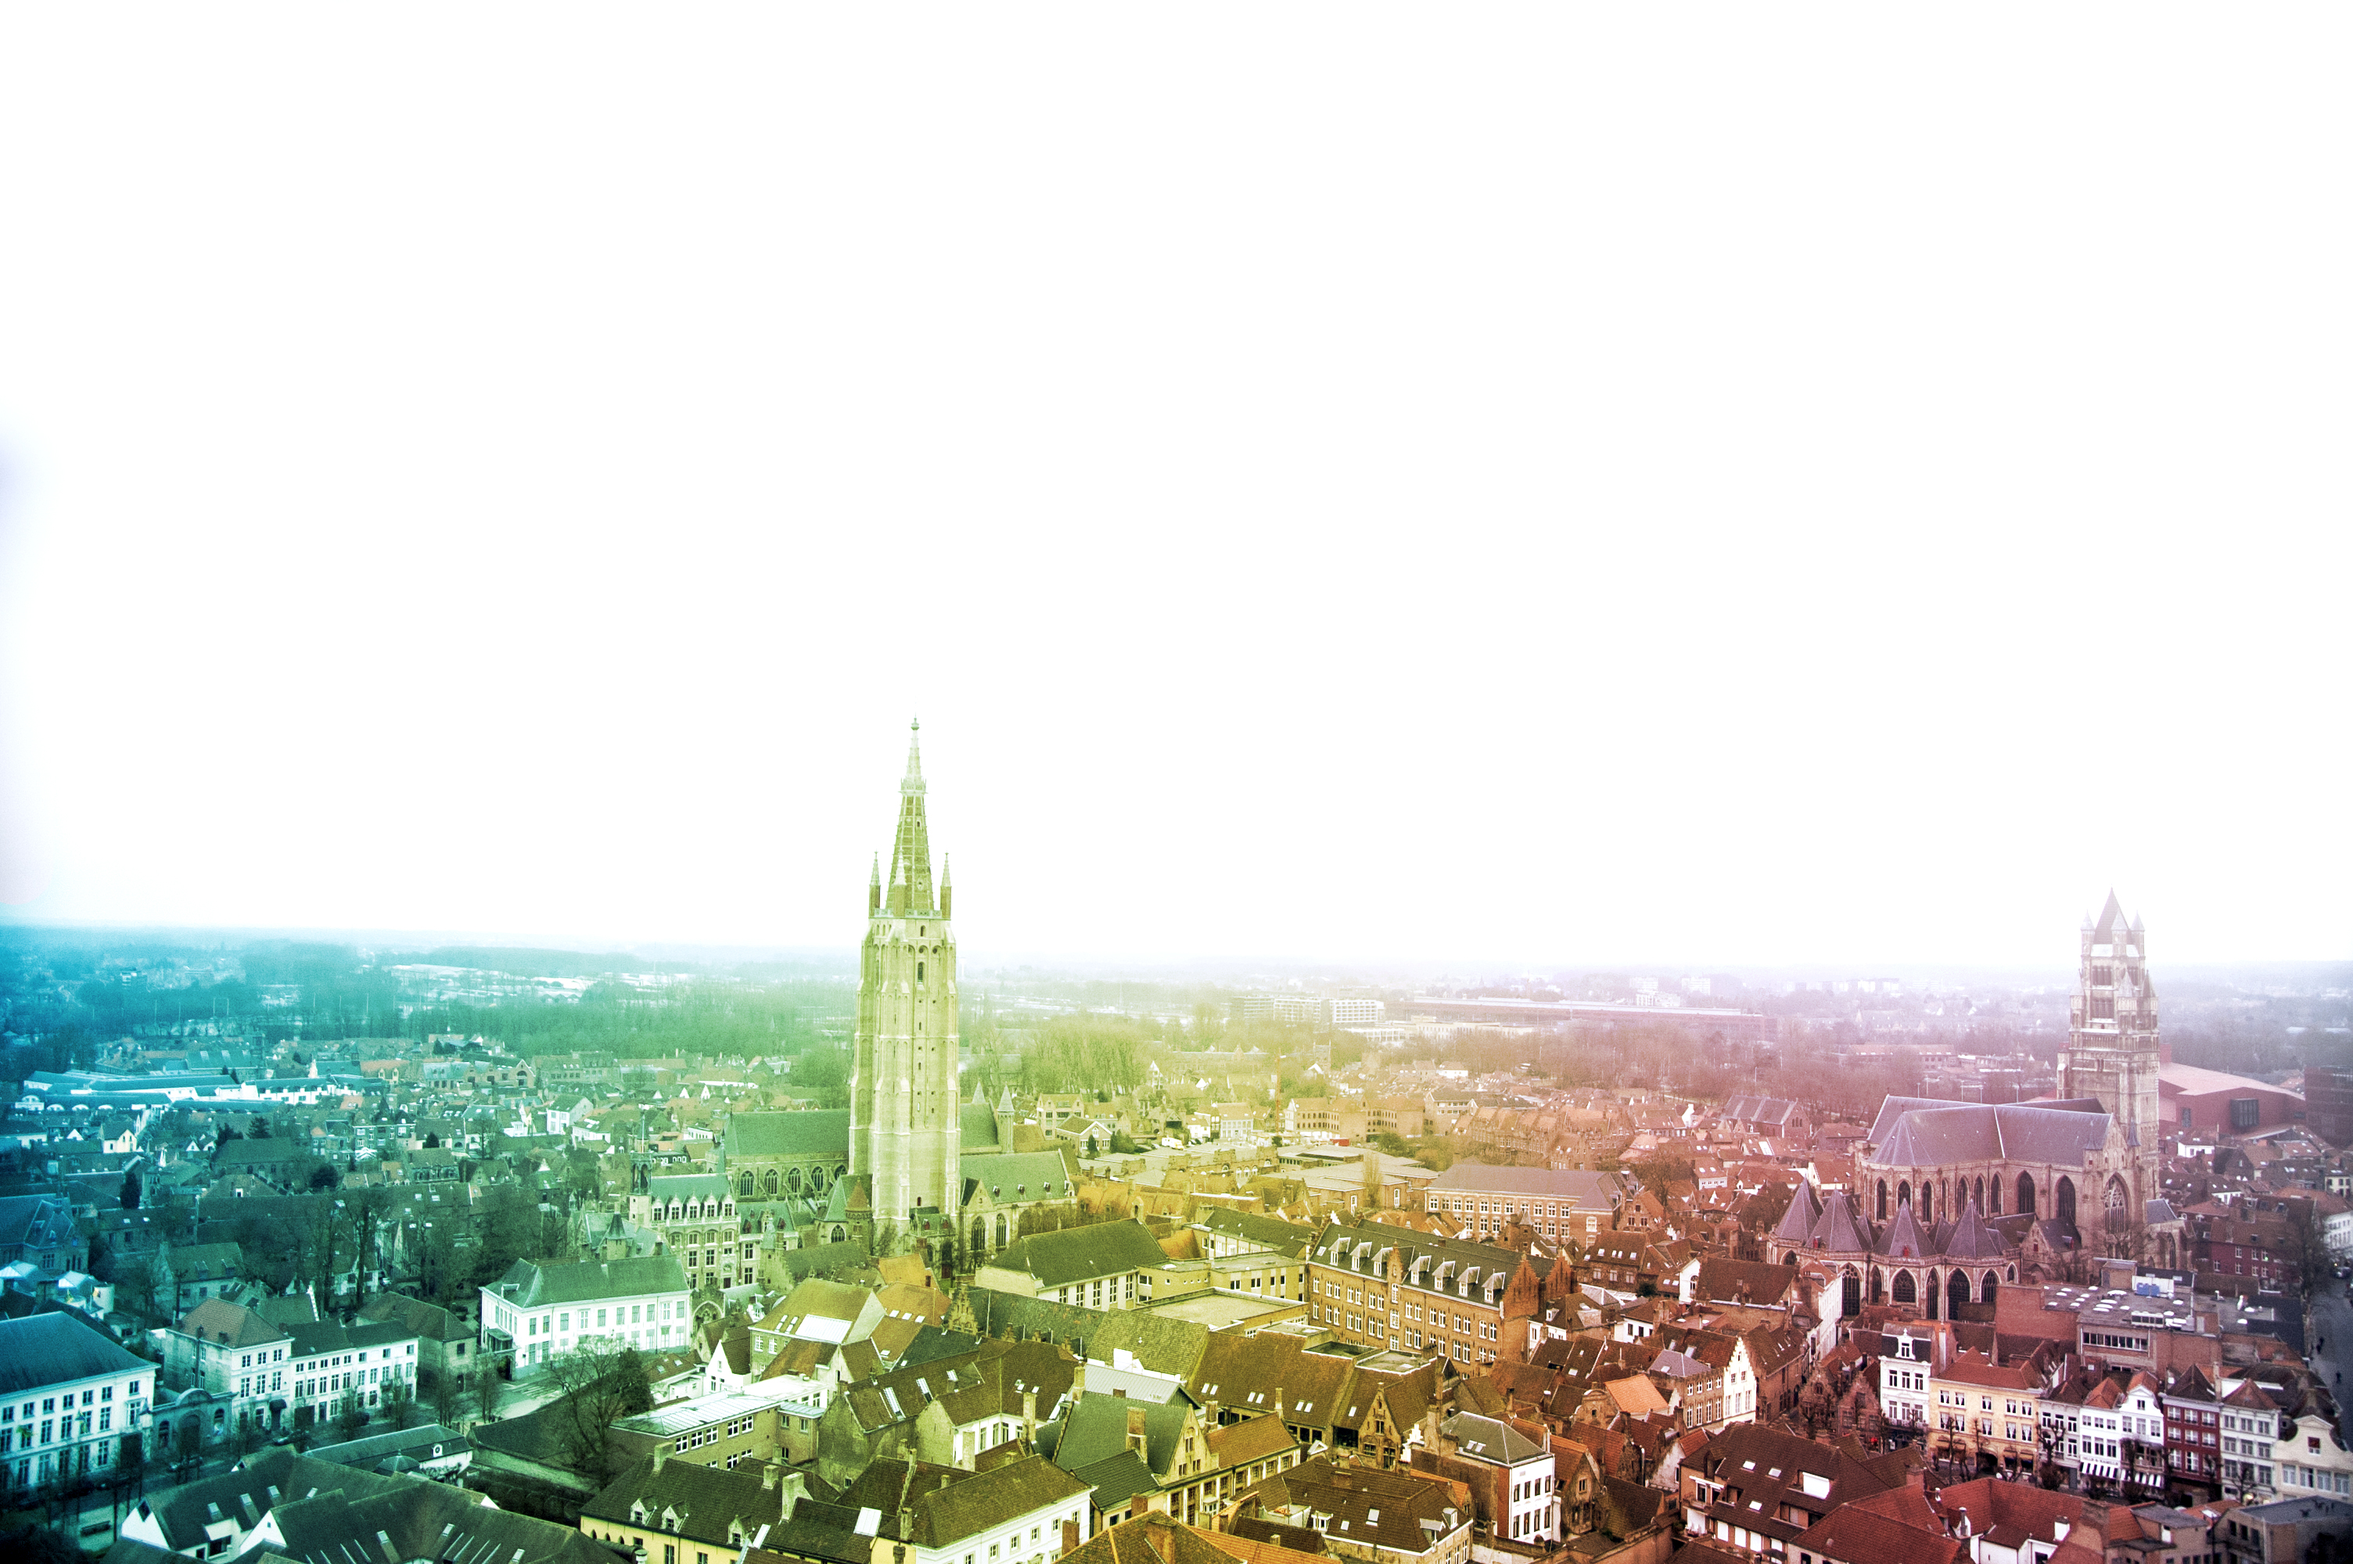
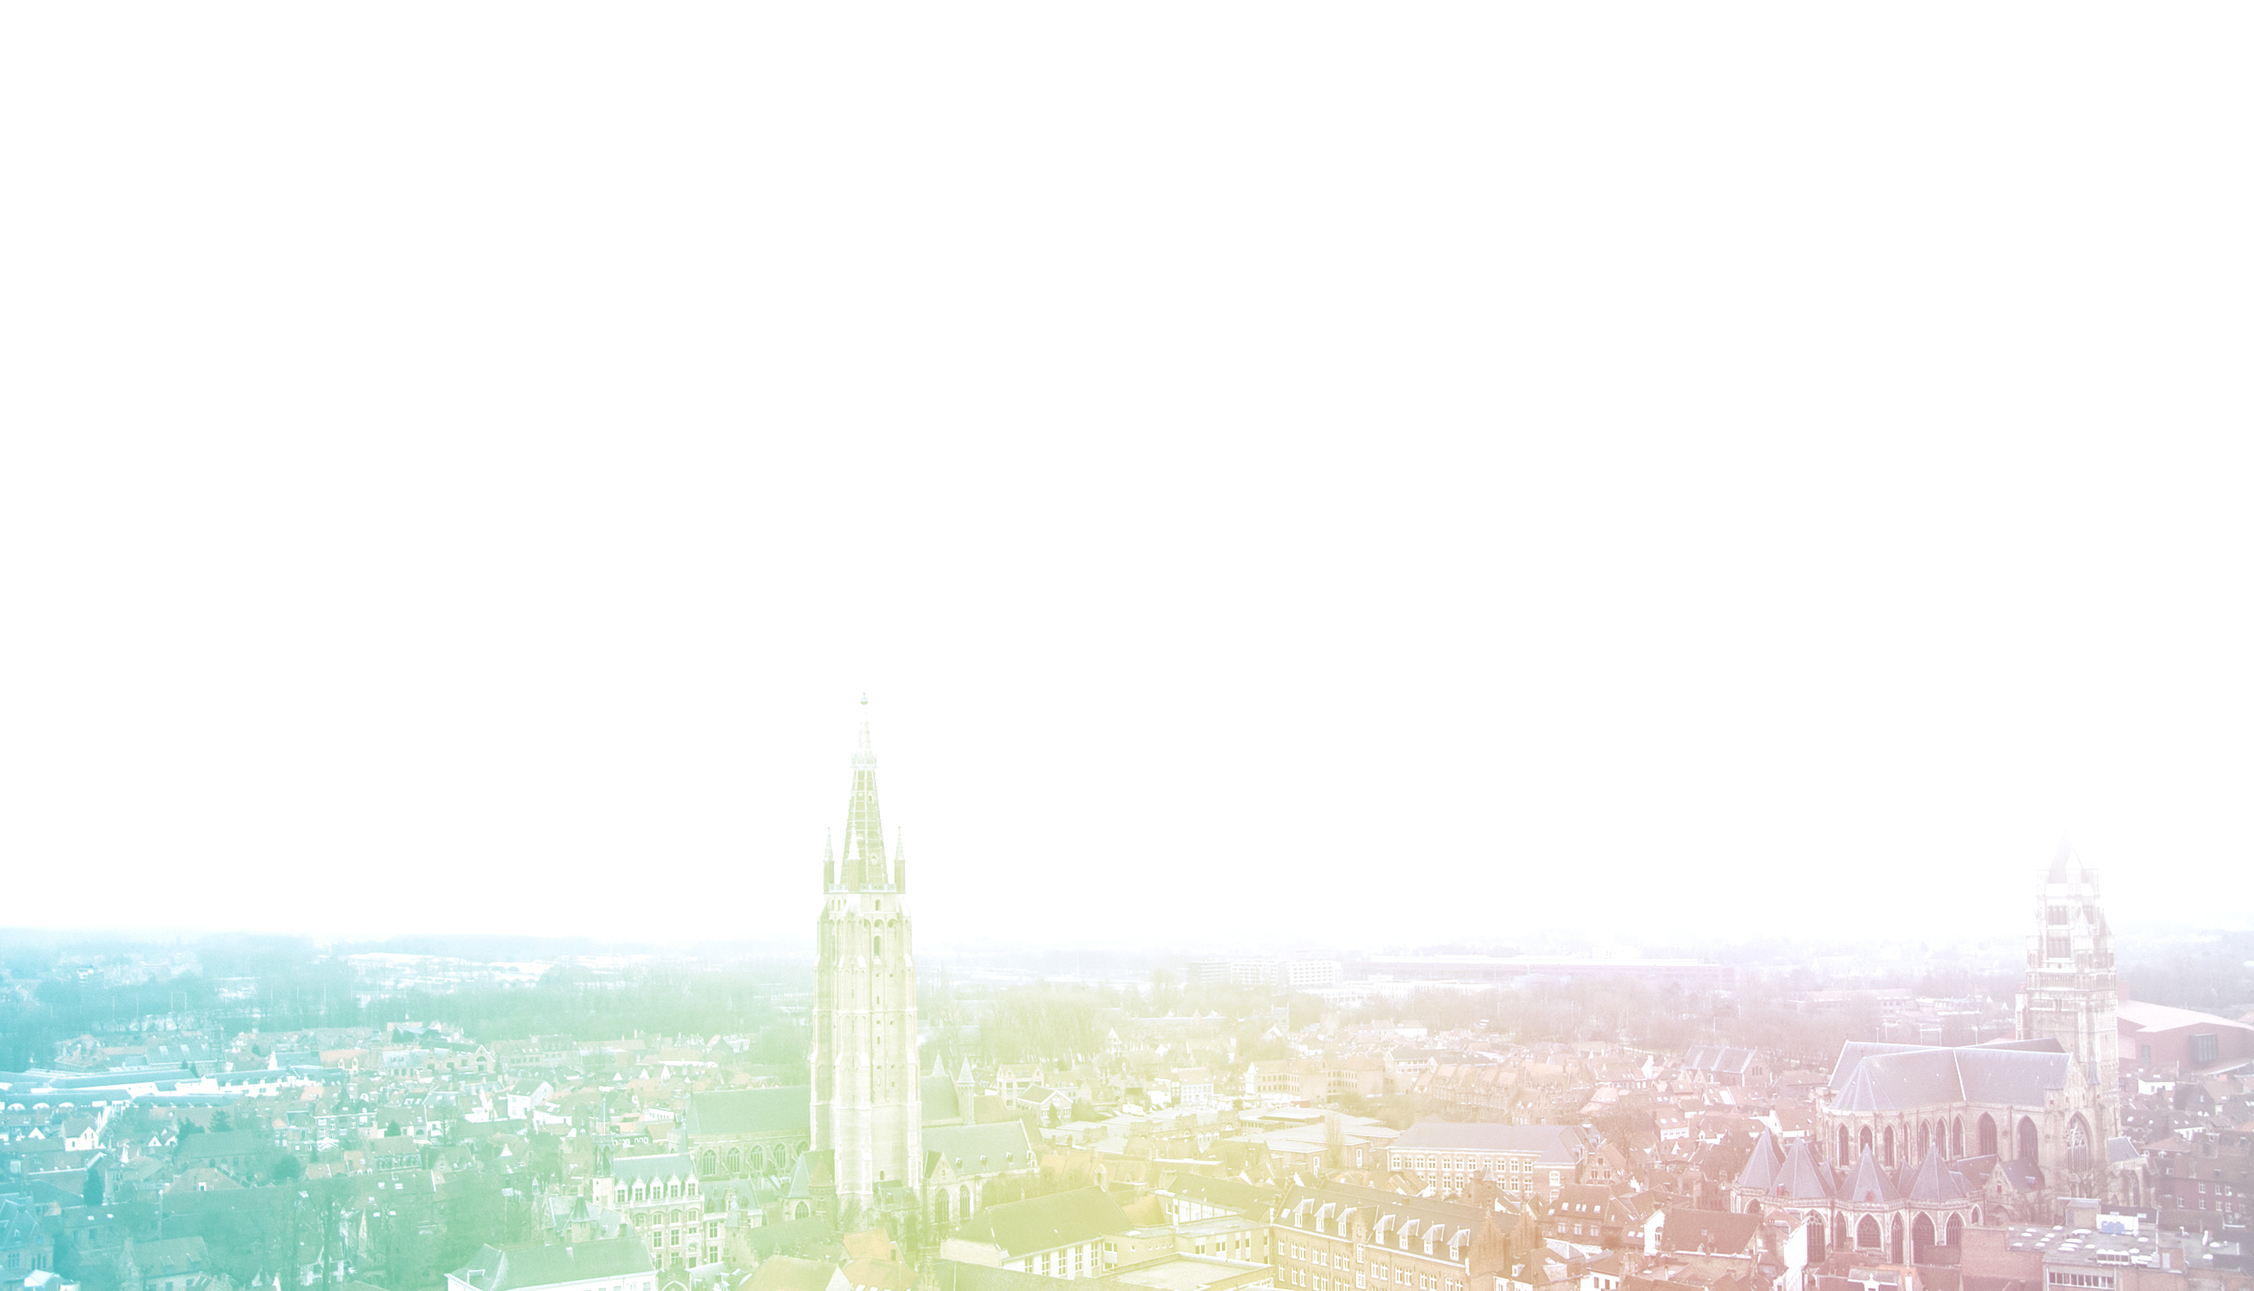
adjusted background

diff --git a/app/assets/stylesheets/application_general.scss b/app/assets/stylesheets/application_general.scss
@@ -22,6 +22,7 @@
     padding: 10px;
     background-color: #8e8e8e;
     opacity:0.6;
+    z-index: 1;
   }
 
   nav ul {
@@ -39,7 +40,7 @@
   }
 
   nav a:hover {
-    color: #ED4726;
+    color: #d12929;
   }
 
   nav ul, nav h1{
@@ -49,7 +50,7 @@
 
 .standard_box {
   width: 50%;
-  min-height: 500px;
+  min-height: 350px;
   position: relative;
   margin-top: 250px;
   margin-left: auto;
@@ -106,8 +107,8 @@ label {
 
 /* background image */
 
-body {
-  positition: absolute;
+#background {
+  position: absolute;
   width: 100%;
   height: 100%;
   bottom: 0;
@@ -116,5 +117,5 @@ body {
   background-size: cover;
   background-repeat: no-repeat;
   background-position: center;
-  z-index: -1;
+  z-index: -2;
 }
